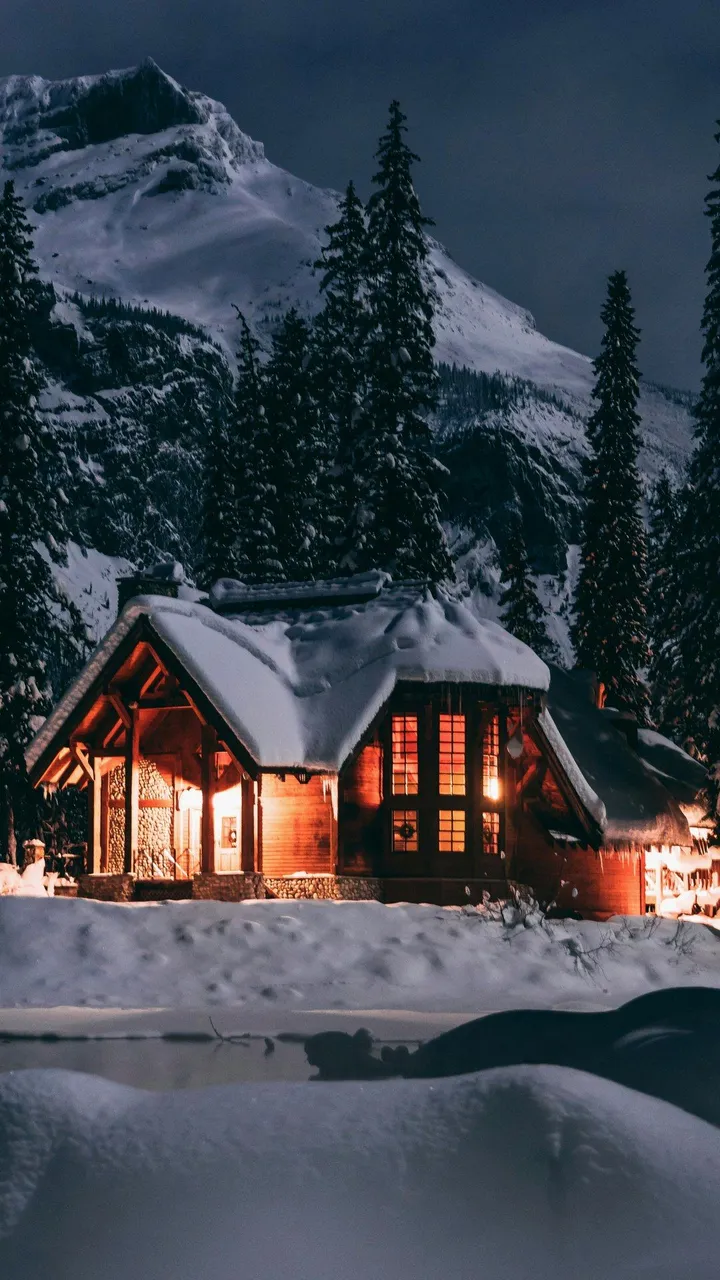
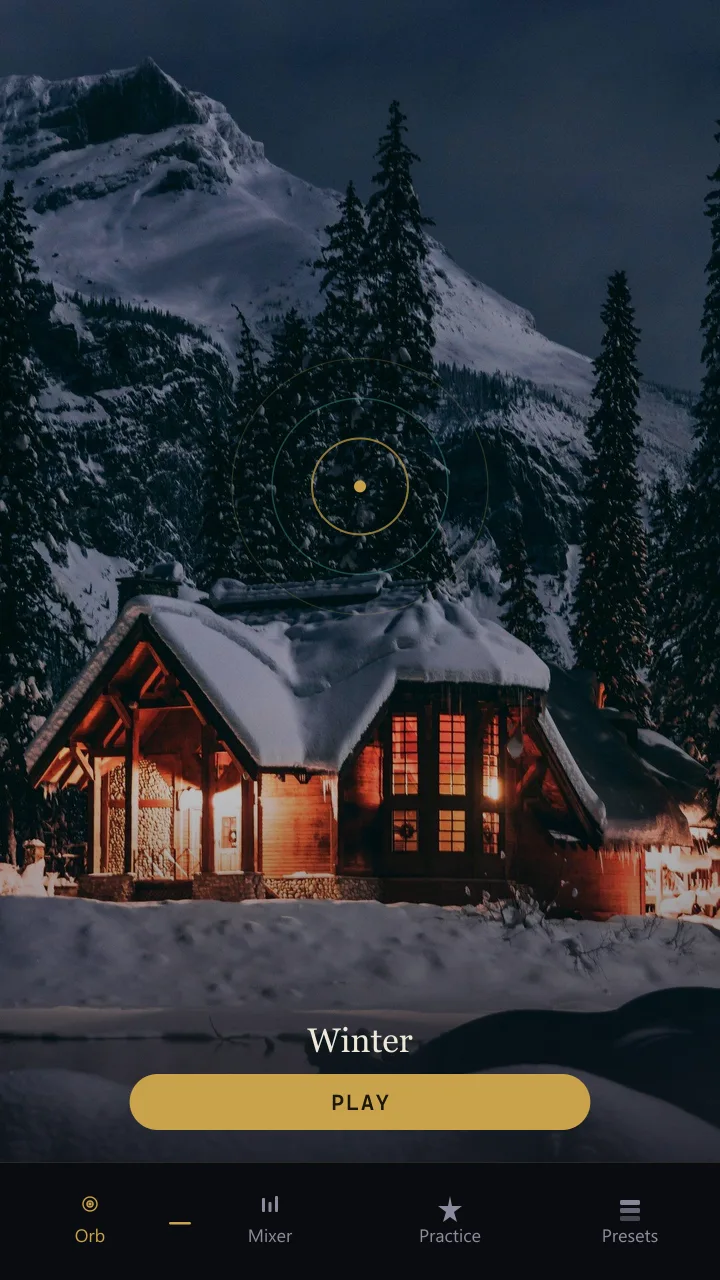
Unify showcase phones on the real 4-tab app nav.
Stamp Orb/Mixer/Practice/Presets onto every marketing screen and ambient frame.

diff --git a/scripts/stamp-app-tabs.js b/scripts/stamp-app-tabs.js
@@ -1,0 +1,148 @@
+const sharp = require("sharp");
+const fs = require("fs");
+const path = require("path");
+
+const ROOT = process.cwd();
+const ASSETS = path.join(
+  process.env.USERPROFILE || "",
+  ".cursor/projects/c-Users-1230s-OneDrive-Documents-Jatt-Tonaura-website/assets"
+);
+const OUT = path.join(ROOT, "public/images/app");
+const MIRROR = path.join(ROOT, "tonaura-website/tonaura-website-final/images/app");
+
+const W = 720;
+const H = 1280;
+const TAB_H = 118;
+
+function tabBarSvg(activeIndex) {
+  const labels = ["Orb", "Mixer", "Practice", "Presets"];
+  const icons = [
+    // simple concentric orb
+    `<circle cx="0" cy="-10" r="3" fill="none" stroke="CURRENT" stroke-width="1.6"/><circle cx="0" cy="-10" r="7" fill="none" stroke="CURRENT" stroke-width="1.4"/><circle cx="0" cy="-10" r="1.6" fill="CURRENT"/>`,
+    // mixer sliders
+    `<rect x="-8" y="-16" width="3" height="14" rx="1" fill="CURRENT"/><rect x="-1.5" y="-12" width="3" height="10" rx="1" fill="CURRENT"/><rect x="5" y="-18" width="3" height="16" rx="1" fill="CURRENT"/>`,
+    // sparkle / practice
+    `<path d="M0 -18 L2 -8 L12 -8 L4 -2 L7 8 L0 3 L-7 8 L-4 -2 L-12 -8 L-2 -8 Z" fill="CURRENT"/>`,
+    // layers / presets
+    `<rect x="-10" y="-14" width="20" height="5" rx="1.5" fill="CURRENT" opacity="0.95"/><rect x="-10" y="-6" width="20" height="5" rx="1.5" fill="CURRENT" opacity="0.7"/><rect x="-10" y="2" width="20" height="5" rx="1.5" fill="CURRENT" opacity="0.45"/>`,
+  ];
+  const slot = W / 4;
+  const items = labels
+    .map((label, i) => {
+      const x = slot * i + slot / 2;
+      const on = i === activeIndex;
+      const color = on ? "#C9A24B" : "#8E8AA0";
+      const icon = icons[i].replaceAll("CURRENT", color);
+      const mark = on
+        ? `<rect x="${x - 11}" y="8" width="22" height="2.5" rx="1.25" fill="#C9A24B"/>`
+        : "";
+      return `
+        <g transform="translate(${x}, 52)">
+          ${mark}
+          <g>${icon}</g>
+          <text x="0" y="28" text-anchor="middle" font-family="system-ui, -apple-system, Segoe UI, sans-serif" font-size="18" font-weight="500" fill="${color}">${label}</text>
+        </g>`;
+    })
+    .join("");
+
+  return `<?xml version="1.0" encoding="UTF-8"?>
+<svg width="${W}" height="${TAB_H}" viewBox="0 0 ${W} ${TAB_H}" xmlns="http://www.w3.org/2000/svg">
+  <rect width="${W}" height="${TAB_H}" fill="#0B0C10"/>
+  <line x1="0" y1="0.5" x2="${W}" y2="0.5" stroke="rgba(237,231,217,0.12)" stroke-width="1"/>
+  ${items}
+</svg>`;
+}
+
+async function stampScreen(srcName, outName, activeTab) {
+  const src = path.join(ASSETS, srcName);
+  const bar = Buffer.from(tabBarSvg(activeTab));
+  const barPng = await sharp(bar).png().toBuffer();
+
+  // Cover whatever wrong tabs exist, keep upper UI.
+  const body = await sharp(src)
+    .resize(W, H, { fit: "cover", position: "top" })
+    .composite([
+      {
+        input: {
+          create: {
+            width: W,
+            height: TAB_H + 8,
+            channels: 4,
+            background: { r: 11, g: 12, b: 16, alpha: 1 },
+          },
+        },
+        top: H - TAB_H - 8,
+        left: 0,
+      },
+      { input: barPng, top: H - TAB_H, left: 0 },
+    ])
+    .webp({ quality: 84 })
+    .toBuffer();
+
+  fs.writeFileSync(path.join(OUT, outName), body);
+  fs.mkdirSync(MIRROR, { recursive: true });
+  fs.writeFileSync(path.join(MIRROR, outName), body);
+  console.log("wrote", outName);
+}
+
+async function stampAmbient(name, activeTab = 0) {
+  const freshJpg = path.join(
+    "C:/Users/1230s/OneDrive/Documents/Jatt/tonaura-app/tonaura-app/assets/ambients",
+    `${name}.jpg`
+  );
+  const src = fs.existsSync(freshJpg) ? freshJpg : path.join(OUT, "ambients", `${name}.webp`);
+  if (!fs.existsSync(src)) return;
+  const bar = Buffer.from(tabBarSvg(activeTab));
+  const barPng = await sharp(bar).png().toBuffer();
+  const label = name === "nightsky" ? "Night sky" : name[0].toUpperCase() + name.slice(1);
+  const ui = Buffer.from(`<?xml version="1.0" encoding="UTF-8"?>
+<svg width="${W}" height="${H}" xmlns="http://www.w3.org/2000/svg">
+  <defs>
+    <linearGradient id="g" x1="0" y1="0" x2="0" y2="1">
+      <stop offset="0%" stop-color="#08080E" stop-opacity="0.2"/>
+      <stop offset="55%" stop-color="#08080E" stop-opacity="0.15"/>
+      <stop offset="100%" stop-color="#08080E" stop-opacity="0.78"/>
+    </linearGradient>
+  </defs>
+  <rect width="${W}" height="${H}" fill="url(#g)"/>
+  <circle cx="${W / 2}" cy="${H * 0.38}" r="48" fill="none" stroke="#C9A24B" stroke-width="2" opacity="0.7"/>
+  <circle cx="${W / 2}" cy="${H * 0.38}" r="88" fill="none" stroke="#4FB3A9" stroke-width="1.5" opacity="0.35"/>
+  <circle cx="${W / 2}" cy="${H * 0.38}" r="128" fill="none" stroke="#C9A24B" stroke-width="1.2" opacity="0.22"/>
+  <circle cx="${W / 2}" cy="${H * 0.38}" r="6" fill="#C9A24B"/>
+  <text x="${W / 2}" y="${H - TAB_H - 110}" text-anchor="middle" font-family="Georgia, serif" font-size="34" fill="#EDE7D9">${label}</text>
+  <rect x="${W * 0.18}" y="${H - TAB_H - 88}" width="${W * 0.64}" height="56" rx="28" fill="#C9A24B"/>
+  <text x="${W / 2}" y="${H - TAB_H - 52}" text-anchor="middle" font-family="system-ui,sans-serif" font-size="22" font-weight="600" letter-spacing="2" fill="#1A1608">PLAY</text>
+</svg>`);
+
+  const outAmb = path.join(OUT, "ambients");
+  const mirrorAmb = path.join(MIRROR, "ambients");
+  fs.mkdirSync(outAmb, { recursive: true });
+  fs.mkdirSync(mirrorAmb, { recursive: true });
+
+  const body = await sharp(src)
+    .resize(W, H, { fit: "cover" })
+    .composite([
+      { input: await sharp(ui).png().toBuffer(), top: 0, left: 0 },
+      { input: barPng, top: H - TAB_H, left: 0 },
+    ])
+    .webp({ quality: 82 })
+    .toBuffer();
+
+  fs.writeFileSync(path.join(outAmb, `${name}.webp`), body);
+  fs.writeFileSync(path.join(mirrorAmb, `${name}.webp`), body);
+  console.log("ambient", name);
+}
+
+(async () => {
+  await stampScreen("app-mixer.png", "mixer.webp", 1);
+  await stampScreen("app-orb.png", "orb.webp", 0);
+  await stampScreen("app-practice.png", "practice.webp", 2);
+  await stampScreen("app-presets.png", "presets.webp", 3);
+  for (const a of ["winter", "autumn", "summer", "rain", "nightsky"]) {
+    await stampAmbient(a, 0);
+  }
+  console.log("done");
+})().catch((e) => {
+  console.error(e);
+  process.exit(1);
+});
